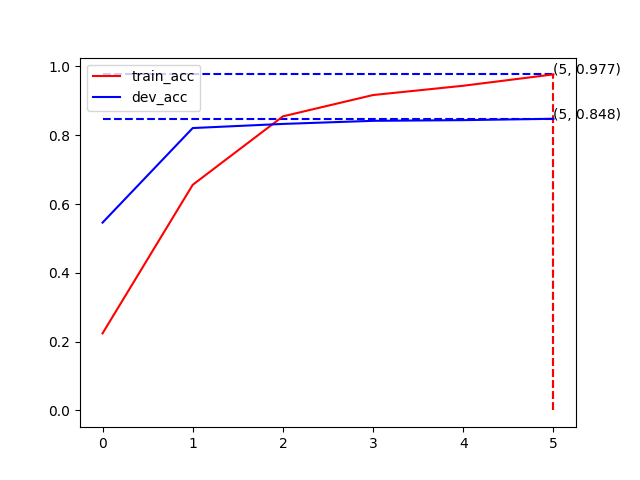
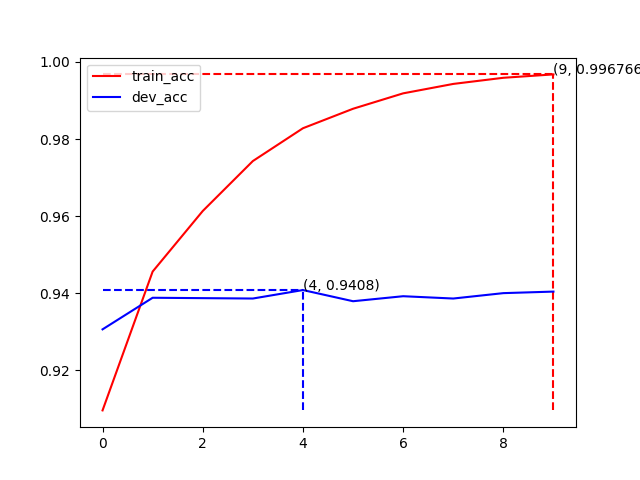
增加训练曲线

diff --git a/utils.py b/utils.py
@@ -274,11 +274,11 @@ def my_plot(train_acc_list, dev_acc_list, losses):
     plt.plot(train_acc_list, color='r', label='train_acc')
     plt.plot(dev_acc_list, color='b', label='dev_acc')
     x = [i for i in range(len(train_acc_list))]
-    for list_ in [train_acc_list, dev_acc_list]:
+    for add, list_ in enumerate([train_acc_list, dev_acc_list]):
         max_x, max_y = get_max(x, list_)
         plt.text(max_x, max_y, f'{(max_x, max_y)}')
-        plt.vlines(max_x, 0, max_y, colors='r', linestyles='dashed')
-        plt.hlines(max_y, 0, max_x, colors='b', linestyles='dashed')
+        plt.vlines(max_x, min(min(train_acc_list), min(dev_acc_list)), max_y, colors='r' if add==0 else 'b', linestyles='dashed')
+        plt.hlines(max_y, 0, max_x, colors='r' if add==0 else 'b', linestyles='dashed')
     plt.legend()
     plt.savefig(os.path.join(os.path.dirname(train_file), 'acc.png'))
     plt.figure()

diff --git a/train.py b/train.py
@@ -85,7 +85,7 @@ def main():
     epochs_count = []
     train_losses = []
     valid_losses = []
-    train_acc_list, dev_acc_list, losses = [], [], []
+    train_acc_list, dev_acc_list = [], []
     # Continuing training from a checkpoint if one was given as argument
     if checkpoint:
         checkpoint_save = torch.load(checkpoint)
@@ -138,8 +138,7 @@ def main():
 
         train_acc_list.append(train_epoch_accuracy)
         dev_acc_list.append(epoch_accuracy)
-        losses.append(epoch_loss)
-        my_plot(train_acc_list, dev_acc_list,losses)  # 画图
+        my_plot(train_acc_list, dev_acc_list,train_losses)  # 画图
 
         if patience_counter >= patience:
             print("-> Early stopping: patience limit reached, stopping...")

diff --git a/config.py b/config.py
@@ -21,7 +21,7 @@ model_dict = {  # 这里可以添加更多模型
     ),
     # 'bert_token_classify': ('transformers.BertTokenizer', 'transformers.BertForTokenClassification', 'transformers.BertConfig'),
 }
-epochs = 20
+epochs = 10
 batch_size = 32
 # batch_size = 64
 lr = 1e-5  # 学习率

diff --git a/README.md b/README.md
@@ -19,6 +19,9 @@
 bert_classification_raw/
 ├── data # 放数据
 │   ├── xinwen #放数据
+│   │    ├── acc.png # 训练时产生, 训练集、验证集正确率曲线
+│   │    ├── loss.png # 训练时产生, loss下降曲线
+│   │    ├── test_data_predict.csv # 行test.py得到的对test.csv的预测结果
 │   │    ├── class.txt # 行号代表标签类别
 │   │    ├── train.csv  # 测试数据
 │   │    ├── train.csv  # 测试数据
@@ -33,12 +36,16 @@ bert_classification_raw/
 └── utils.py  # 小的工具函数
 ```
 
-### 更换自己的数据集
+# 更换自己的数据集
  1、在data下建立和xinwen一样的文件夹（包含train.csv,test.csv,dev.csv）
+
  2、在config.py中修改dir_name
 
+# bert 训练曲线(10epoch)
+![image](data/xinwen/acc.png)
+![image](data/xinwen/loss.png)
 
-## 具体参数可看config.py
+# 具体参数可看config.py
 ```
 # 训练
 python train.py  # 会生成data/xinwen/acc.png,data/xinwen/loss.png,正确率和loss曲线
@@ -47,3 +54,6 @@ python infer.py # 里面参数需要重新配置，不导入config
 # test.csv测试
 python test.py  # 会生成data/xinwen/test_pred_out
 ```
+
+# 参考链接
+https://github.com/649453932/Bert-Chinese-Text-Classification-Pytorch
